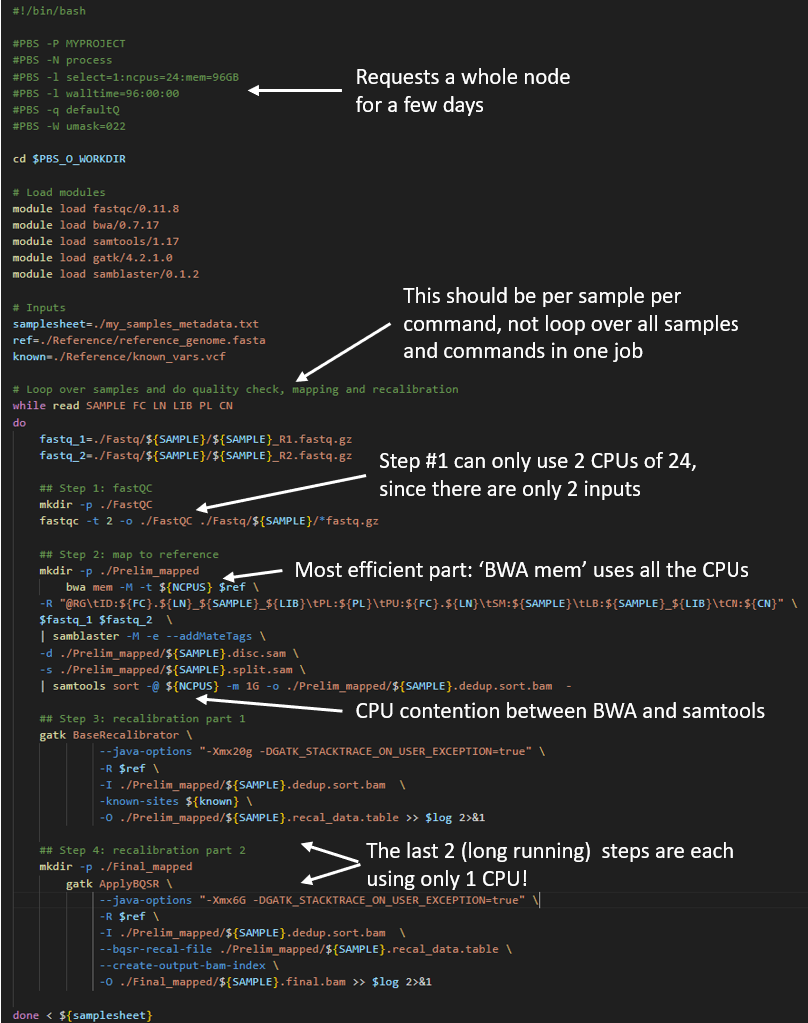
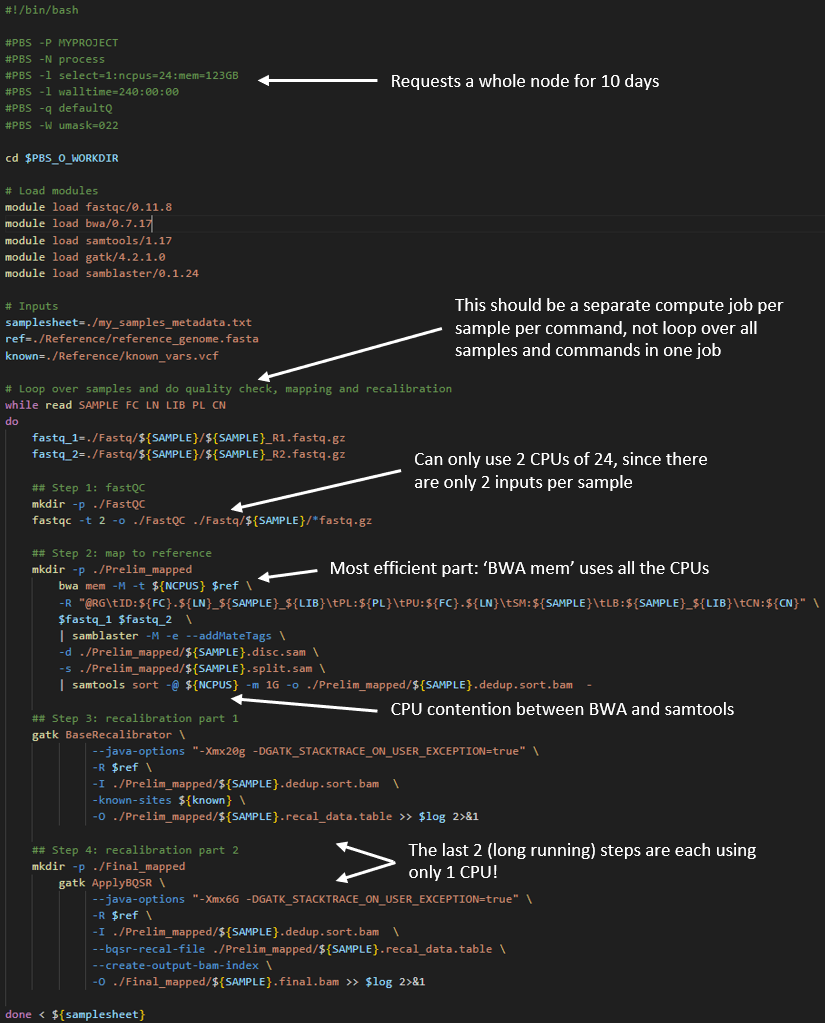
Built site for gh-pages

Changed region(s): [[0.0, 0.0, 0.9901, 1.0]]

diff --git a/notebooks/12_walltime.html b/notebooks/12_walltime.html
@@ -20,6 +20,40 @@ ul.task-list li input[type="checkbox"] {
   margin: 0 0.8em 0.2em -1em; /* quarto-specific, see https://github.com/quarto-dev/quarto-cli/issues/4556 */ 
   vertical-align: middle;
 }
+/* CSS for syntax highlighting */
+pre > code.sourceCode { white-space: pre; position: relative; }
+pre > code.sourceCode > span { line-height: 1.25; }
+pre > code.sourceCode > span:empty { height: 1.2em; }
+.sourceCode { overflow: visible; }
+code.sourceCode > span { color: inherit; text-decoration: inherit; }
+div.sourceCode { margin: 1em 0; }
+pre.sourceCode { margin: 0; }
+@media screen {
+div.sourceCode { overflow: auto; }
+}
+@media print {
+pre > code.sourceCode { white-space: pre-wrap; }
+pre > code.sourceCode > span { display: inline-block; text-indent: -5em; padding-left: 5em; }
+}
+pre.numberSource code
+  { counter-reset: source-line 0; }
+pre.numberSource code > span
+  { position: relative; left: -4em; counter-increment: source-line; }
+pre.numberSource code > span > a:first-child::before
+  { content: counter(source-line);
+    position: relative; left: -1em; text-align: right; vertical-align: baseline;
+    border: none; display: inline-block;
+    -webkit-touch-callout: none; -webkit-user-select: none;
+    -khtml-user-select: none; -moz-user-select: none;
+    -ms-user-select: none; user-select: none;
+    padding: 0 4px; width: 4em;
+  }
+pre.numberSource { margin-left: 3em;  padding-left: 4px; }
+div.sourceCode
+  {   }
+@media screen {
+pre > code.sourceCode > span > a:first-child::before { text-decoration: underline; }
+}
 </style>
 
 
@@ -214,12 +248,13 @@ cookieconsent.run({
   <ul>
   <li><a href="#introduction" id="toc-introduction" class="nav-link active" data-scroll-target="#introduction">Introduction</a></li>
   <li><a href="#gadi-walltime-limit" id="toc-gadi-walltime-limit" class="nav-link" data-scroll-target="#gadi-walltime-limit">Gadi walltime limit</a></li>
-  <li><a href="#split-your-job" id="toc-split-your-job" class="nav-link" data-scroll-target="#split-your-job">1. Split your job</a></li>
-  <li><a href="#use-nirin" id="toc-use-nirin" class="nav-link" data-scroll-target="#use-nirin">2. Use Nirin</a></li>
-  <li><a href="#gadi-special-walltime-request" id="toc-gadi-special-walltime-request" class="nav-link" data-scroll-target="#gadi-special-walltime-request">3. Gadi special walltime request</a></li>
+  <li><a href="#option-1.-split-or-checkpoint-your-job" id="toc-option-1.-split-or-checkpoint-your-job" class="nav-link" data-scroll-target="#option-1.-split-or-checkpoint-your-job">Option 1. Split or checkpoint your job</a></li>
+  <li><a href="#option-2.-use-nirin" id="toc-option-2.-use-nirin" class="nav-link" data-scroll-target="#option-2.-use-nirin">Option 2. Use Nirin</a></li>
+  <li><a href="#option-3.-gadi-special-walltime-request" id="toc-option-3.-gadi-special-walltime-request" class="nav-link" data-scroll-target="#option-3.-gadi-special-walltime-request">Option 3. Gadi special walltime request</a></li>
   <li><a href="#examples-of-splitcheckpointed-jobs" id="toc-examples-of-splitcheckpointed-jobs" class="nav-link" data-scroll-target="#examples-of-splitcheckpointed-jobs">Examples of split/checkpointed jobs</a>
   <ul class="collapse">
   <li><a href="#example-1-a-workflow-with-multiple-discrete-commands" id="toc-example-1-a-workflow-with-multiple-discrete-commands" class="nav-link" data-scroll-target="#example-1-a-workflow-with-multiple-discrete-commands">Example 1: A workflow with multiple discrete commands</a></li>
+  <li><a href="#example-2-tom-tbc" id="toc-example-2-tom-tbc" class="nav-link" data-scroll-target="#example-2-tom-tbc">Example 2: TOM TBC</a></li>
   </ul></li>
   </ul>
 </nav>
@@ -265,7 +300,7 @@ cookieconsent.run({
 </section>
 <section id="gadi-walltime-limit" class="level2">
 <h2 class="anchored" data-anchor-id="gadi-walltime-limit">Gadi walltime limit</h2>
-<p>The maximum walltime permitted on any of the Gadi HPC queues is 48 hours. In some cases, the walltime may be less (for example when requesting large numbers of nodes, or on <code>copyq</code>).</p>
+<p>The maximum walltime permitted on any of the Gadi HPC queues is 48 hours. In some cases, the walltime may be less (for example when requesting large numbers of nodes, or on <code>copyq</code>). See the <code>Default walltime limit</code> column of the <a href="https://opus.nci.org.au/spaces/Help/pages/236881198/Queue+Limits...">queue limits</a> tables to discover the maximum walltime that applies according to your resources requested.</p>
 <p>Given that Artemis has much longer maximum walltimes, we understand this may generate some apprehension. Staff at both NCI and SIH can support you in adapting your workflows to NCI if you are still having difficulty after reviewing the suggestons below.</p>
 <p>In short, there are 3 options to adapting a long-running Artemis workflow to NCI:</p>
 <ol type="1">
@@ -274,26 +309,26 @@ cookieconsent.run({
 <li>Special exception to the Gadi walltime limit granted on a case-by-case basis</li>
 </ol>
 </section>
-<section id="split-your-job" class="level2">
-<h2 class="anchored" data-anchor-id="split-your-job">1. Split your job</h2>
+<section id="option-1.-split-or-checkpoint-your-job" class="level2">
+<h2 class="anchored" data-anchor-id="option-1.-split-or-checkpoint-your-job">Option 1. Split or checkpoint your job</h2>
 <p>There are many advantages to splitting your job up into smaller discrete chunks.</p>
 <ol type="1">
 <li>Checkpointing: if one of your jobs in a series of fails, you only need to resubmit that discrete job script, rather than either the whole job or some finnicky “hashed out” version of your very long and comlex workflow script. This simplifies debugging and rerunning, saves you hands-on time and walltime, minimises errors, and saves KSU</li>
 <li>Ease of code maintenance: changing part of workflow, for example adjusting parameters, input files or software versions, is far simpler to implement for shorter chunks of code than it is for a long and complex code with many steps</li>
-<li>Ease of benchmarking: Different stages of a complex workflow typically have different compute requirements, for example some long running single core tasks coupled with some GPU tasks, some high memory, some high CPU tasks etc. <a href="../notebooks/10_job_efficiency.html">Benchamrking</a> is more straightforward and informative when performed on discrete workflow chunks.</li>
+<li>Ease of benchmarking: Different stages of a complex workflow typically have different compute requirements, for example some long running single core tasks coupled with some GPU tasks, some high memory, some high CPU tasks etc. <a href="../notebooks/10_job_efficiency.html">Benchmarking</a> is more straightforward and informative when performed on discrete workflow chunks.</li>
 <li>Greater job efficiency: By benchmarking and optimising the resource configurations for each stage of the workflow, the series of jobs can be placed on an appropriate queue, and will not be reserving (and being charged for) unused resources. This will reduce KSU usage and resource wastage.</li>
-<li>Shorter queue times: Requesting resources for a shorter walltime will result in a shorter queue time. The NCI scheduler is geared towards favouring ‘wider and shorter’ jobs, ie more CPUs/nodes for less time, over ‘taller and slimmer’ jobs (ie fewer CPUs/nodes for a longer time). For example a job may queue for less time if it requests 48 CPU for 1 hour, compred to 1 CPU for 48 hours. Of course the queue is highly dynamic and this cannot be predicted or calculated ahead of time, but in general, shorter walltimes will lead to shorter queue times.</li>
+<li>Shorter queue times: Requesting resources for a shorter walltime will result in a shorter queue time. The NCI scheduler is geared towards favouring ‘wider and shorter’ jobs, ie more CPUs/nodes for less time, over ‘taller and slimmer’ jobs (ie fewer CPUs/nodes for a longer time). For example a job may queue for less time if it requests 48 CPU for 1 hour, compared to 1 CPU for 48 hours. Of course the queue is highly dynamic and this cannot be predicted or calculated ahead of time, but in general, shorter walltimes will lead to shorter queue times.</li>
 </ol>
-<p>At the end of this section we will demonstrate a handful of <a href="#example-splitcheckpointed-jobs">examples</a> of real long-running Artemis workflows that have been adapted to fit within Gadi’s shorter maximum walltime.</p>
+<p>At the end of this section we will demonstrate a handful of <a href="#examples-of-splitcheckpointed-jobs">examples</a> of real long-running Artemis workflows that have been adapted to fit within Gadi’s shorter maximum walltime.</p>
 </section>
-<section id="use-nirin" class="level2">
-<h2 class="anchored" data-anchor-id="use-nirin">2. Use Nirin</h2>
+<section id="option-2.-use-nirin" class="level2">
+<h2 class="anchored" data-anchor-id="option-2.-use-nirin">Option 2. Use Nirin</h2>
 <p>Your NCI KSUs can be used on <a href="https://opus.nci.org.au/spaces/Help/pages/152207472/Nirin+Cloud+User+Guide?src=contextnavpagetreemode">Nirin</a> as well as Gadi. Nirin has the advantage of theoretically infinite walltime, along with internet access which is another limitation of the Gadi compute queues.</p>
 <p>As such, Nirin presents an easily accessible solution for users whose jobs are irreconcilably affected by the walltime and lack of internet access aspects of Gadi.</p>
 <p>The <a href="https://opus.nci.org.au/spaces/Help/pages/152207474/Nirin+-+Quick+Start+Guide">Nirin quickstart guide</a> walks you through the process of setting up your instance, including easy to follow screenshots for each step.</p>
 </section>
-<section id="gadi-special-walltime-request" class="level2">
-<h2 class="anchored" data-anchor-id="gadi-special-walltime-request">3. Gadi special walltime request</h2>
+<section id="option-3.-gadi-special-walltime-request" class="level2">
+<h2 class="anchored" data-anchor-id="option-3.-gadi-special-walltime-request">Option 3. Gadi special walltime request</h2>
 <p>If your job cannot be split/checkpointed into a series of shorter jobs, and the Nirin flavours are not suited to your compute needs, you can make a request to NCI for an increase to the walltime. NCI will ask you to provide details of your job including the relevant code saved on Gadi, as well as a description of why you require a lift to the walltime for this particular job.</p>
 <p>From the <a href="https://opus.nci.org.au/spaces/Help/pages/236881198/Queue+Limits...">Gadi queue limits page</a>:</p>
 <p><em>“If a higher limit on core count (PBS_NCPUS) and walltime is needed, please launch a ticket on NCI help desk with a short description of the reasons why the exception is requested. For example, a current scalability study suggests linear speedup at the core count beyond the current PBS_NCPUS limit. We will endeavour to help on a case-by-case basis”</em></p>
@@ -303,11 +338,172 @@ cookieconsent.run({
 <section id="example-1-a-workflow-with-multiple-discrete-commands" class="level3">
 <h3 class="anchored" data-anchor-id="example-1-a-workflow-with-multiple-discrete-commands">Example 1: A workflow with multiple discrete commands</h3>
 <p>In the field of genomics, the raw data is processed through a series of steps before the final output files are produced. Many groups perform all of these steps within a single, multi-command job, in order to only have to run one job to perform all the work.</p>
-<p>By splitting apart each of these steps so that each is its own job, we have a much easier way of resuming from part way through the workflow if a job fails along the processing pathway, and we can also increase overall processing efficiency by assigning discrete chunks to the job queues that best meet those specific resource needs.</p>
+<p>By splitting apart each of these steps so that each is its own job, we can improve code manageability, reduce walltime, and increase overall processing efficiency.</p>
 <p>While this does require some extra effort in terms of submitting multiple processing jobs rather than just one, the benefits described above far outweigh this. The burden of multiple job submission can be ameliorated by parallel processing per sample, and even further by a workflow manager such as Nextflow. For an exammple Nextflow genomics processing workflow, view <a href="https://github.com/Sydney-Informatics-Hub/Parabricks-Genomics-nf">this repository</a>, and for parallel jobs on Gadi, see <a href="./13_parralel_jobs.qmd">this section</a>.</p>
-<p>In the below Artemis script example, the raw input data (<code>fastq</code> format) from each sequenced sample in an inputs list is quality checked, mapped to the reference sequence, and data recalibration performed. There are multiple inefficiencies within this method, giving rise to a walltime requirement of ~ 1 day per samnple plus a very low overall CPU utilisation of the job.</p>
+<p>In the below Artemis script example, a samplesheet is read in containing metadata about 10 samples to be analysed. Each sample has one pair of raw ‘fastq’ input files that are processed through an analysis loop containing 4 steps:</p>
+<table class="caption-top table">
+<colgroup>
+<col style="width: 8%">
+<col style="width: 28%">
+<col style="width: 28%">
+<col style="width: 20%">
+<col style="width: 13%">
+</colgroup>
+<thead>
+<tr class="header">
+<th>Step</th>
+<th>Task</th>
+<th>Input</th>
+<th>Walltime (hrs)</th>
+<th>CPUs used</th>
+</tr>
+</thead>
+<tbody>
+<tr class="odd">
+<td>1</td>
+<td>Quality check</td>
+<td>Raw data</td>
+<td>2</td>
+<td>2</td>
+</tr>
+<tr class="even">
+<td>2</td>
+<td>Map to reference</td>
+<td>Raw data</td>
+<td>7</td>
+<td>24</td>
+</tr>
+<tr class="odd">
+<td>3</td>
+<td>Recalibration metrics</td>
+<td>Output of step 2</td>
+<td>5.5</td>
+<td>1</td>
+</tr>
+<tr class="even">
+<td>4</td>
+<td>Apply recalibration</td>
+<td>Output of steps 2 + 3</td>
+<td>8.5</td>
+<td>1</td>
+</tr>
+</tbody>
+</table>
+<p>The total walltime is 23 hours per sample, so the requested walltime in the below script is 240 hours (10 samples x 24 hours per sample)</p>
+<p><strong>There are multiple inefficiencies within this method</strong>, giving rise to an inflated walltime requirement of ~ 1 day per samnple plus a very low overall CPU utilisation of the job.</p>
 <p><img src="../fig/dummy-artemis-genomics-script.png" class="img-fluid"></p>
-<p>Now compare the above to a Gadi workflow, where each of these 4 steps are separated into their own job, with appropriate resource requests per job:</p>
+<p>Now compare the above to a Gadi workflow, where each of these 4 steps are separated into their own job, with appropriate resource requests per job.</p>
+<p><strong>Job 1: Quality check</strong></p>
+<p>The <code>fastQC</code> tool can only run one thread per file. If you provide multiple files through <code>globbing</code>, and provide multiple CPUs to the <code>-t</code> flag, it will process as many files at a time as the value you have provided to <code>-t</code>.</p>
+<p>So for the current example with 10 samples each with a pair of files, we have 20 files and can run this section of the analysis workflow with 20 CPU. In this way, 100% of the 20 CPU requested are utilised, unlike the Artemis script above, where only one sample’s fastq files at a time could be analysed and thus used only 8.3% (2 CPU used of 24 requested).</p>
+<p><img src="../fig/dummy-gadi-fastqc-script.png" class="img-fluid"></p>
+<p><strong>Job 2: Map to reference</strong></p>
+<p>The <code>bwa</code> tool can multi-thread, and tool benchmarking in peer-reviewed literature shows almost perfect scalability up to a thread count of 36. Gadi <code>normal</code> queue has 48 CPU per node, so you could run this job with 48 CPU, assigning 36 CPU to the mapping and 12 CPU to the piped <code>sort</code> command.</p>
+<p>The key detail is to map each sample’s raw data as it’s own distinct job, instead of looping over each sample in series like the demo Artemis script. On Artemis, we can do this with <strong>job arrays</strong> but these are <em>not available on Gadi</em>. NCI and SIH recommend the use of <code>nci-parallel</code> (a custom wrapper utility for OpenMPI) for repeated runs of the same job script - see <a href="./13_parralel_jobs.qmd">parallel jobs on Gadi</a> for more details.</p>
+<p>To avoid complicating this walltime section, we will provide an example of using a simple <code>for loop</code> for job submission. <strong>NOTE: loops should ONLY be used for a VERY SMALL NUMBER OF JOBS, and always include a sleep in the loop!</strong> NCI does monitor the login nodes and serial offending with long <code>for loops</code> will be targeted!</p>
+<p>Note that the directive for job name is provided on the command line as an argument to <code>qsub</code>, the sample metadata is provided with the <code>qsub -v varname="varvalue"</code> syntax, and a 3-second <code>sleep</code> is used to avoid over-loading the job scheduler.</p>
+<p><strong><em>Script:</em></strong></p>
+<p><img src="../fig/dummy-gadi-bwa-script.png" class="img-fluid"></p>
+<p><strong><em>To submit 10 samples as separate jobs:</em></strong></p>
+<div class="sourceCode" id="cb1"><pre class="sourceCode bash code-with-copy"><code class="sourceCode bash"><span id="cb1-1"><a href="#cb1-1" aria-hidden="true" tabindex="-1"></a><span class="cf">while</span> <span class="bu">read</span> <span class="va">SAMPLE</span> <span class="va">FC</span> <span class="va">LN</span> <span class="va">LIB</span> <span class="va">PL</span> <span class="va">CN</span></span>
+<span id="cb1-2"><a href="#cb1-2" aria-hidden="true" tabindex="-1"></a><span class="cf">do</span></span>
+<span id="cb1-3"><a href="#cb1-3" aria-hidden="true" tabindex="-1"></a>  <span class="ex">qsub</span> <span class="at">-N</span> map-<span class="va">${SAMPLE}</span> <span class="at">-v</span> SAMPLE=<span class="st">"</span><span class="va">${SAMPLE}</span><span class="st">"</span>,FC=<span class="st">"</span><span class="va">${FC}</span><span class="st">"</span>,LN=<span class="st">"</span><span class="va">${LN}</span><span class="st">"</span>,LIB=<span class="st">"</span><span class="va">${LIB}</span><span class="st">"</span>,PL=<span class="st">"</span><span class="va">${PL}</span><span class="st">"</span>,CN=<span class="st">"</span><span class="va">${CN}</span><span class="st">"</span> step2_map.pbs </span>
+<span id="cb1-4"><a href="#cb1-4" aria-hidden="true" tabindex="-1"></a>  <span class="fu">sleep</span> 3</span>
+<span id="cb1-5"><a href="#cb1-5" aria-hidden="true" tabindex="-1"></a><span class="cf">done</span> <span class="op">&lt;</span> my_samples_metedata.txt</span></code><button title="Copy to Clipboard" class="code-copy-button"><i class="bi"></i></button></pre></div>
+<p><strong>Job 3 and 4: Recalibration metrics and apply recalibration</strong></p>
+<p>Note from the table above that these two steps do not multi-thread, and both have long walltimes. If you require a task like this in your workflow, it’s critical to <strong>interrogate the tool documentation</strong> for ways to increase throughput and efficiency.</p>
+<p>Within this tool’s guide, we find there is a <code>-L</code> interval flag, which allows the tool to operate over discrete intervals of the reference file, rather than scanning the sample data over the whole reference file in one long running single-CPU task. The smaller the interval, the faster the run time, and the resultant output files are merged.</p>
+<p>Since this section is not a specialised bioinformatics training, we will not go into details for this tool here, but instead provide the main overview of steps and how with a bit of extra work, massive walltime savings can be made.</p>
+<p>Steps 3 and 4 from the Artemis workflow are now executed as 5 jobs:</p>
+<ol type="1">
+<li>Split the reference file into intervals using the tools’s split intervals function</li>
+<li>Run step 3 over each interval for each sample as a separate job. For 32 intervals and 10 samples, that is 32 * 10 = 320 single-CPU jobs. To do this, we would use <code>Open MPI</code> via <a href="https://opus.nci.org.au/spaces/Help/pages/248840680/Nci-parallel...">nci-parallel</a></li>
+<li>Merge the 32 outputs per sample into a single per-sample file with the tool’s merge function, using <code>nci-parallel</code> to launch the 10 sample * 1 CPU jobs</li>
+<li>Run step 4 over each interval for each sample as a separate job, using the merged output of step 3, another 32 * 10 = 320 single-CPU jobs launched in parallel by <code>nci-parallel</code></li>
+<li>Merge the 32 outputs per sample into one final output file per sample with the tool’s merge function, using <code>nci-parallel</code> to launch the 10 sample * 1 CPU jobs</li>
+</ol>
+<p>As you can see, our workflow which was one long-running single job with very poor overall CPU utilisation has now been split into 7 jobs. This may sound tedious, yet the massively improve walltime and CPU utilisation will pay off, and you will get to your results in a much faster turnaround time with fewer KSU expended. In this example, <strong>walltime of 240 hours has been reduced to 10 hours!</strong>.</p>
+<table class="caption-top table">
+<colgroup>
+<col style="width: 6%">
+<col style="width: 31%">
+<col style="width: 20%">
+<col style="width: 14%">
+<col style="width: 16%">
+<col style="width: 10%">
+</colgroup>
+<thead>
+<tr class="header">
+<th>Step</th>
+<th>Task</th>
+<th>Input</th>
+<th>Walltime (hrs)</th>
+<th>CPUs used per job</th>
+<th>CPUs total</th>
+</tr>
+</thead>
+<tbody>
+<tr class="odd">
+<td>1</td>
+<td>Quality check</td>
+<td>Raw data</td>
+<td>2</td>
+<td>20</td>
+<td>20</td>
+</tr>
+<tr class="even">
+<td>2</td>
+<td>Map to reference</td>
+<td>Raw data</td>
+<td>7</td>
+<td>48</td>
+<td>480</td>
+</tr>
+<tr class="odd">
+<td>3</td>
+<td>Split intervals</td>
+<td>Reference file</td>
+<td>&lt;1</td>
+<td>1</td>
+<td>1</td>
+</tr>
+<tr class="even">
+<td>4</td>
+<td>Recalibration over intervals</td>
+<td>Output of steps 2 + 3</td>
+<td>&lt;1</td>
+<td>1</td>
+<td>320</td>
+</tr>
+<tr class="odd">
+<td>5</td>
+<td>Merge recalibration tables</td>
+<td>Output of step 4</td>
+<td>&lt;1</td>
+<td>1</td>
+<td>10</td>
+</tr>
+<tr class="even">
+<td>6</td>
+<td>Apply recalibration over intervals</td>
+<td>Output of step 2 + 5</td>
+<td>&lt;1</td>
+<td>1</td>
+<td>320</td>
+</tr>
+<tr class="odd">
+<td>7</td>
+<td>Merge recalibrated final output</td>
+<td>Output of step 6</td>
+<td>&lt;1</td>
+<td>1</td>
+<td>10</td>
+</tr>
+</tbody>
+</table>
+</section>
+<section id="example-2-tom-tbc" class="level3">
+<h3 class="anchored" data-anchor-id="example-2-tom-tbc">Example 2: TOM TBC</h3>
 
 
 </section>
